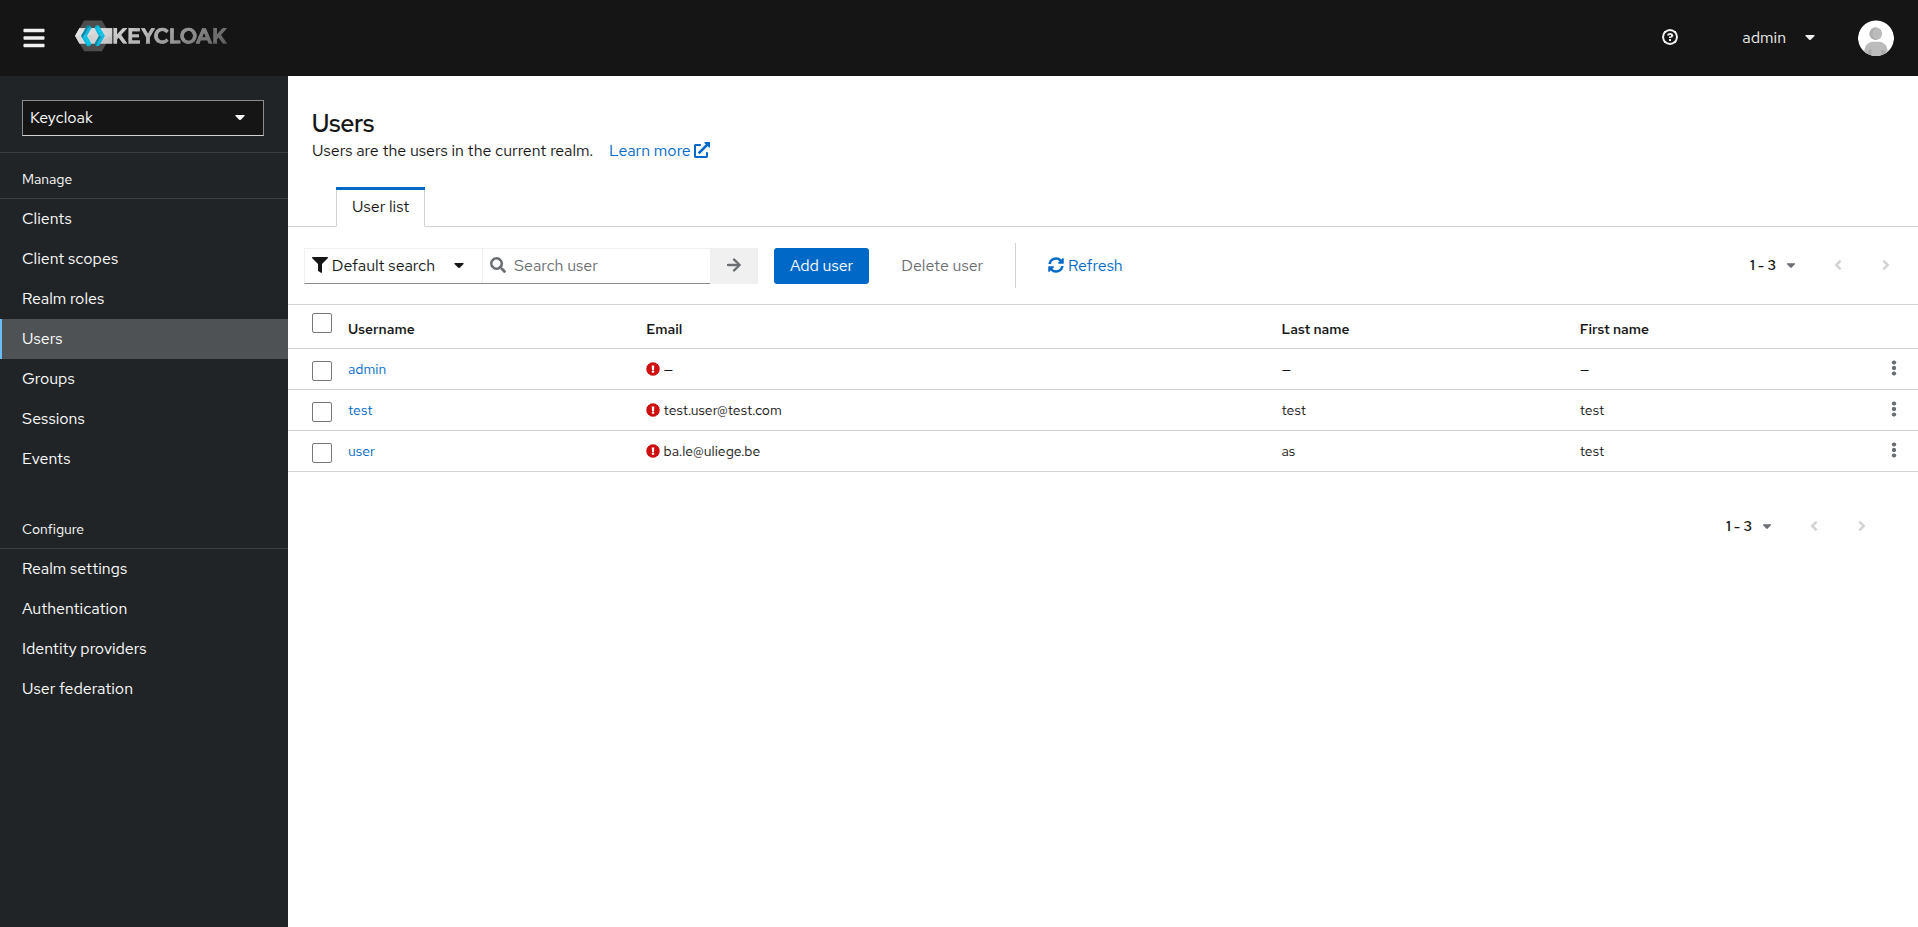
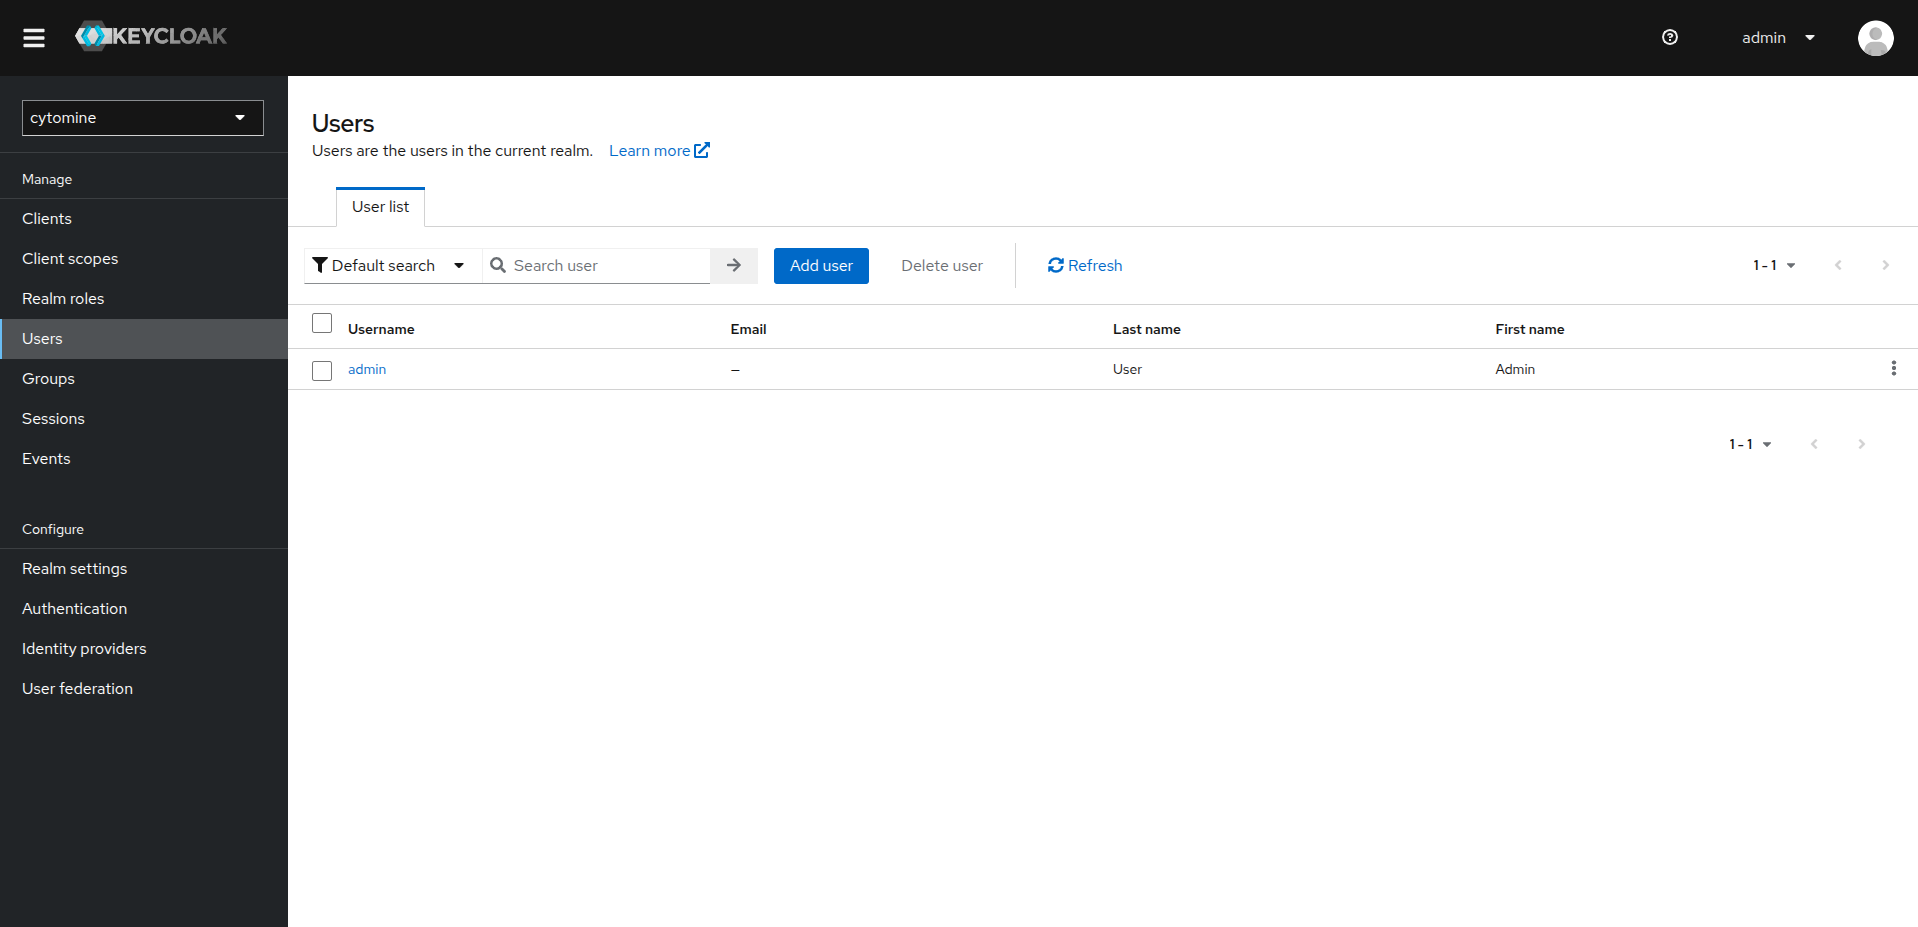
docs: change realm before managing users

diff --git a/docs/src/user-guide/administration.md b/docs/src/user-guide/administration.md
@@ -31,6 +31,12 @@ The admin panel is organised into several sections, each with specific managemen
 
 ## Users
 
+::: tip
+You have to change the realm to be able to manage the users within Cytomine.
+
+To change the realm, click on the drop-down menu on the upper-left corner and select `cytomine` instead of `Keycloak`.
+:::
+
 This panel is for managing user accounts within Cytomine.
 
 ![KeyCloak user page](/images/user-guide/administration/admin-users.png)
